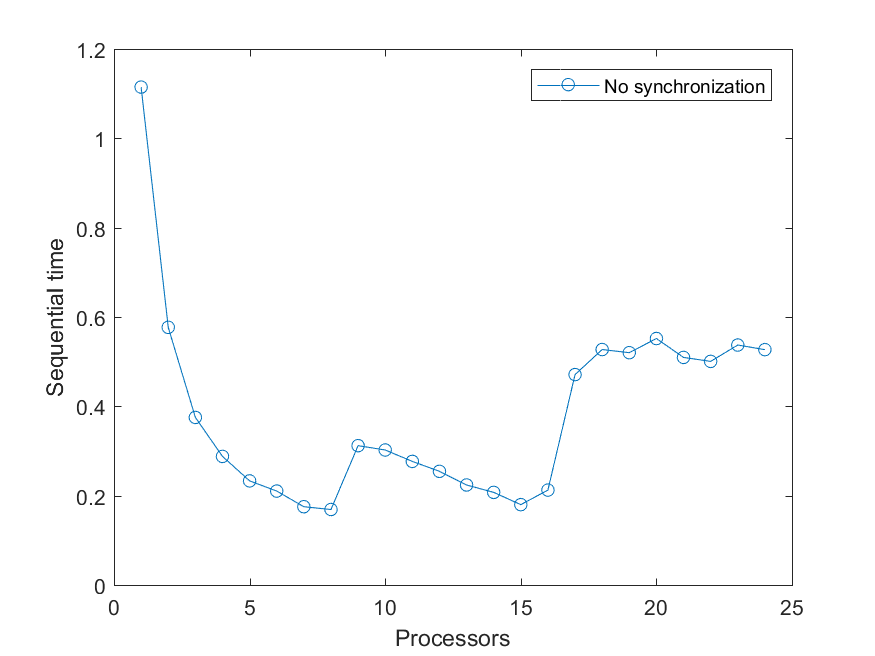
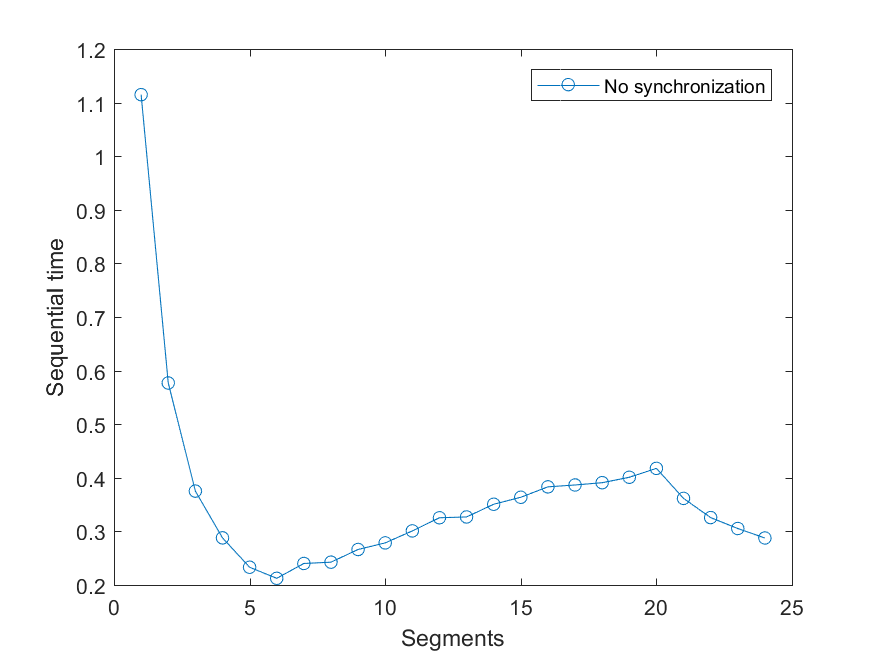
Matlabscript uppdaterat

diff --git a/Project/speedup.m b/Project/speedup.m
@@ -15,6 +15,12 @@ B1 = importdata(filename4);
 B2 = importdata(filename5);
 B3 = importdata(filename6);
 
+% A1=flip(sort(A1));
+% A2=flip(sort(A2));
+% A3=flip(sort(A3));
+% B1=flip(sort(B1));
+% B2=flip(sort(B2));
+% B3=flip(sort(B3));
 
 time_par=(A1+A2+A3)/3;
 time_seq=(B1+B2+B3)/3;
@@ -24,13 +30,13 @@ cumSeq=cumSeq'.*time_seq;
 figure(1)
 plot(cumSeq,'-o')
 fastestSeq=min(cumSeq);
-xlabel('Processors')
+xlabel('Segments')
 ylabel('Sequential time')
 legend('No synchronization')
 print('sequentialDivConq','-dpng')
 
 
-figure(2)
+figure(2)   
 plot(time_par,'-o')
 hold on
 plot(time_seq,'-or')
@@ -38,6 +44,7 @@ xlabel('Processors')
 ylabel('Iteration time')
 legend('Synchronization','No synchronization')
 print('parallelDivConq','-dpng')
+
 
 speed_par=fastestSeq./time_par;
 speed_seq=fastestSeq./time_seq;
@@ -47,7 +54,26 @@ hold on
 plot(speed_seq,'-or')
 plot(1:numel(time_seq))
 xlabel('Processors')
-ylabel('speedup')
+ylabel('Speedup')
 legend('Synchronization','No synchronization','Linear')
 print('speedUp','-dpng')
+
+speed_par=time_par(1)./time_par;
+speed_seq=time_seq(1)./time_seq;
+figure(4)
+plot(speed_par,'-o')
+hold on
+plot(speed_seq,'-or')
+plot(1:numel(time_seq))
+xlabel('Processors')
+ylabel('Speedup')
+legend('Synchronization','No synchronization','Linear')
+print('notSpeedUp','-dpng')
+
+%%
+figure(5)
+plot(100*time_par./time_seq-100)
+xlabel('Processors')
+ylabel('Communication overhead time [%]')
+print('Overhead','-dpng')
 
